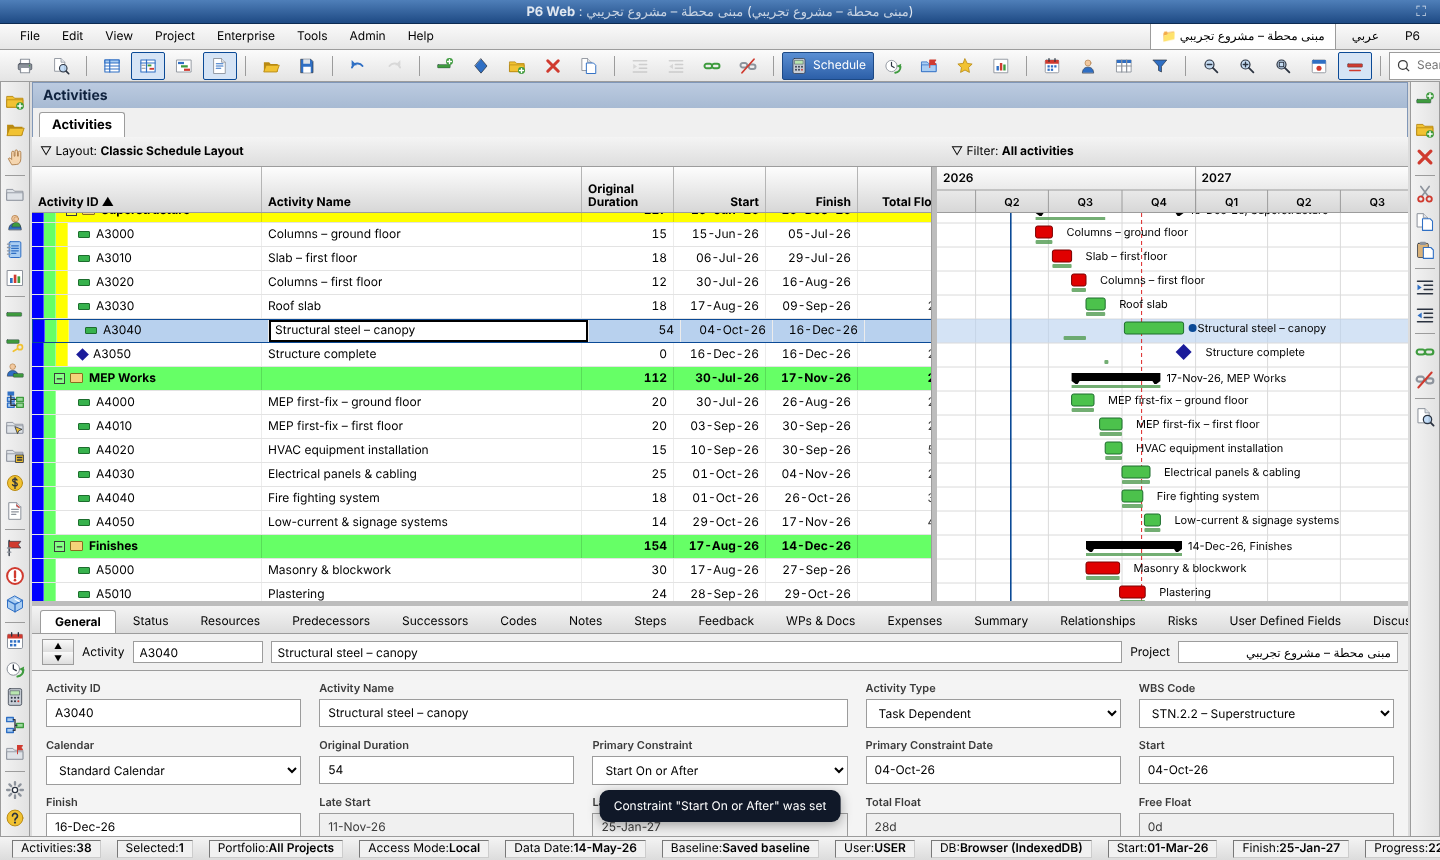
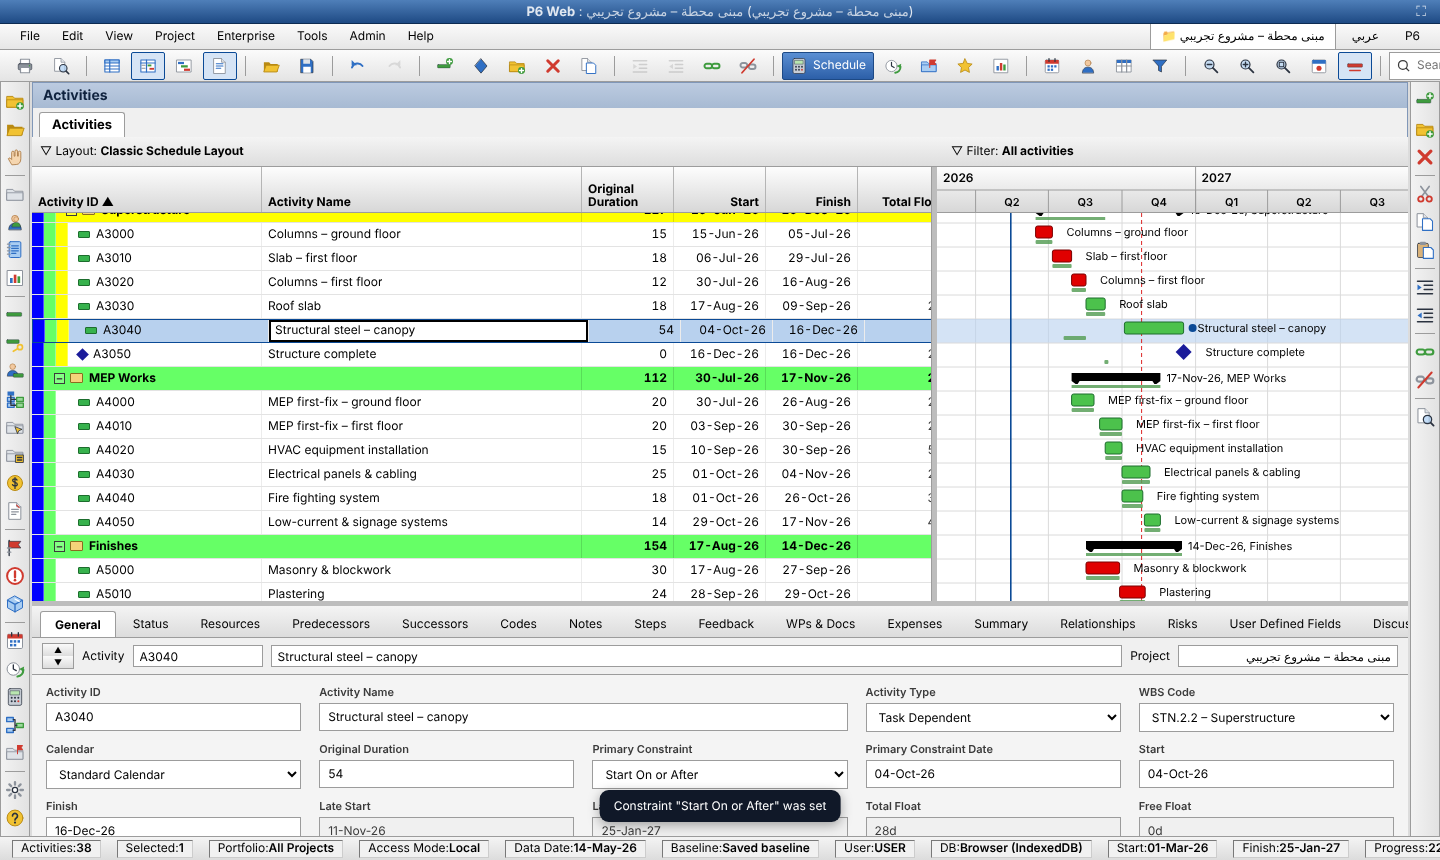
Bar size option, wider timescale compress range with slider (#180)
Claude-Session: https://claude.ai/code/session_01DNKDuzURuxssrGYREb4oVz

diff --git a/p6-web/js/menus.js b/p6-web/js/menus.js
@@ -84,13 +84,16 @@
     const sh = F().show, lm = F().labelMode || 'name';
     const items = [['base', 'show_baseline'], ['crit', 'show_critical'], ['rels', 'show_rels'], ['labels', 'show_labels'], ['float', 'show_float'], ['today', 'show_today']];
     const body = `<div class="plist" style="gap:2px">${items.map(([k, l]) => `<label class="chk"><input type="checkbox" data-k="${k}"${sh[k] ? ' checked' : ''}> ${esc(t(l))}</label>`).join('')}<label class="chk"><input type="checkbox" data-k="pline"${F().pline ? ' checked' : ''}> ${esc(t('mi_progressline'))}</label></div>
+      <div class="fld" style="max-width:260px;margin-top:12px"><label>${esc(t('bar_size'))}</label><select id="bd_s">${[1, 2, 3, 4, 5].map((n) => `<option value="${n}"${(F().barSize || 3) === n ? ' selected' : ''}>${n} – ${esc(t('bs_' + n))}</option>`).join('')}</select></div>
       <div class="fld" style="max-width:260px;margin-top:12px"><label>${esc(t('label_text'))}</label><select id="bd_l">${[['name', t('col_name')], ['id', t('col_code')], ['both', t('lbl_both')], ['none', t('lbl_none')]].map(([v, l]) => `<option value="${v}"${lm === v ? ' selected' : ''}>${esc(l)}</option>`).join('')}</select></div>`;
-    modal({ title: t('mi_bars'), cls: 'mid', body, buttons: [{ label: t('cancel'), fn: () => {} }, { label: t('apply'), cls: 'pri', fn: (c, el) => { el.querySelectorAll('input[data-k]').forEach((i) => { if (i.dataset.k === 'pline') F().pline = i.checked; else F().show[i.dataset.k] = i.checked; }); F().labelMode = $('#bd_l', el).value; App.saveCfg(); App.refresh(); App.buildMenus(); } }] });
+    modal({ title: t('mi_bars'), cls: 'mid', body, buttons: [{ label: t('cancel'), fn: () => {} }, { label: t('apply'), cls: 'pri', fn: (c, el) => { el.querySelectorAll('input[data-k]').forEach((i) => { if (i.dataset.k === 'pline') F().pline = i.checked; else F().show[i.dataset.k] = i.checked; }); F().labelMode = $('#bd_l', el).value; F().barSize = +$('#bd_s', el).value; App.saveCfg(); App.refresh(); App.buildMenus(); } }] });
   };
   D.timescaleDialog = function () {
     const cur = App.nearestTs();
-    const body = `<div class="plist">${App.TS.map(([k, v]) => `<label class="pitem"><input type="radio" name="ts" value="${v}"${cur === v ? ' checked' : ''}><div class="nm">${esc(t('ts_' + k))}</div></label>`).join('')}</div>`;
-    modal({ title: t('mi_timescale'), cls: 'mid', body, buttons: [{ label: t('cancel'), fn: () => {} }, { label: t('fit_project'), fn: () => { App.zoomFit(); } }, { label: t('apply'), cls: 'pri', fn: (c, el) => { const r = el.querySelector('input[name=ts]:checked'); if (r) App.setTimescale(+r.value); } }] });
+    const nz = App.zoomLevels(), cz = F().pxIdx;
+    const body = `<div class="fld" style="margin-bottom:12px"><label>${esc(t('ts_compress'))}: <b id="tsv">${nz[cz]} px/${esc(t('ts_day'))}</b></label><input type="range" id="ts_r" min="0" max="${nz.length - 1}" value="${cz}" style="width:100%;direction:ltr"><div style="display:flex;justify-content:space-between;font-size:11px;color:var(--muted)"><span>${esc(t('ts_zoomin'))}</span><span>${esc(t('ts_zoomout'))}</span></div></div><div class="plist">${App.TS.map(([k, v]) => `<label class="pitem"><input type="radio" name="ts" value="${v}"${cur === v ? ' checked' : ''}><div class="nm">${esc(t('ts_' + k))}</div></label>`).join('')}</div>`;
+    modal({ title: t('mi_timescale'), cls: 'mid', body, buttons: [{ label: t('cancel'), fn: () => {} }, { label: t('fit_project'), fn: () => { App.zoomFit(); } }, { label: t('apply'), cls: 'pri', fn: (c, el) => { const rg = +$('#ts_r', el).value; const r = el.querySelector('input[name=ts]:checked'); if (rg !== cz) App.setTimescale(rg); else if (r) App.setTimescale(+r.value); } }] });
+    const rr = document.getElementById('ts_r'); if (rr) rr.oninput = () => { document.getElementById('tsv').textContent = nz[+rr.value] + ' px/' + t('ts_day'); document.querySelectorAll('input[name=ts]').forEach((x) => { x.checked = false; }); };
   };
   D.tableFont = function () {
     const body = `<div class="grid2"><div class="fld"><label>${esc(t('font_size'))}</label><input id="tf_s" value="${F().fontSize || 12}"></div><div class="fld"><label>${esc(t('row_height'))}</label><input id="tf_r" value="${App.getRH()}"></div></div><label class="chk" style="margin-top:10px"><input type="checkbox" id="tf_b"${F().boldWbs !== false ? ' checked' : ''}> ${esc(t('bold_wbs'))}</label>`;

diff --git a/p6-web/js/app.js b/p6-web/js/app.js
@@ -6,7 +6,7 @@
   const esc = P6.esc;
   const t = (k, ...a) => P6.t(k, ...a);
 
-  const ZOOMS = [60, 36, 20, 12, 6, 3, 1.6, 0.8, 0.4];
+  const ZOOMS = [60, 36, 20, 12, 6, 3, 1.6, 0.8, 0.4, 0.2, 0.1, 0.05];
   const ALL_COLS = P6.ALL_COLS;
   const DEF_COLS = ['code', 'name', 'dur', 'es', 'ef', 'tf'];
   const TYPES = ['TT_Task', 'TT_Mile', 'TT_FinMile', 'TT_LOE'];
@@ -793,7 +793,7 @@
   function pushGantt(full) {
     if (!gantt) return;
     const px = ZOOMS[S.cfg.pxIdx];
-    const o = { rows: S.rows, ru: S.ru, rowH: RH, px, minDay: S.minDay, maxDay: S.maxDay, sel: S.sel, show: Object.assign({}, S.cfg.show, { pline: S.cfg.pline, labelMode: S.cfg.labelMode || 'name' }), p: S.p, rels: true, spot: S.cfg.show.spot ? S.spot : null };
+    const o = { rows: S.rows, ru: S.ru, rowH: RH, px, minDay: S.minDay, maxDay: S.maxDay, sel: S.sel, show: Object.assign({}, S.cfg.show, { pline: S.cfg.pline, labelMode: S.cfg.labelMode || 'name', barSize: S.cfg.barSize || 3 }), p: S.p, rels: true, spot: S.cfg.show.spot ? S.spot : null };
     gantt.set(o);
   }
   function ganttCb() {
@@ -1190,7 +1190,7 @@
   const BARS = [['base', 'show_baseline'], ['crit', 'show_critical'], ['rels', 'show_rels'], ['labels', 'show_labels'], ['float', 'show_float'], ['today', 'show_today'], ['spot', 'spotlight']];
   function buildLayoutBar() { if (API.drawLayoutBar) API.drawLayoutBar(); }
   const nearestTs = () => TS.reduce((b, x) => (Math.abs(x[1] - S.cfg.pxIdx) < Math.abs(b[1] - S.cfg.pxIdx) ? x : b), TS[0])[1];
-  Object.assign(API, { LAYOUTS, TS, BARS, setTimescale, nearestTs, toggleShow, saveCfg, layoutDetails, renderDetails, setSel(keys) { S.sel = new Set(keys); S.focus = keys[0] || null; S.anchor = S.focus; selChanged(); } });
+  Object.assign(API, { LAYOUTS, TS, zoomLevels: () => ZOOMS.slice(), BARS, setTimescale, nearestTs, toggleShow, saveCfg, layoutDetails, renderDetails, setSel(keys) { S.sel = new Set(keys); S.focus = keys[0] || null; S.anchor = S.focus; selChanged(); } });
   // ---------- File menu features ----------
   API.commit = async function () { await saveNow(); toast(t('committed')); updateStatus(); };
   API.refreshData = async function () {

diff --git a/p6-web/js/gantt.js b/p6-web/js/gantt.js
@@ -78,6 +78,11 @@
         const qNext = (d) => { const y = P6.ymd(d); return P6.mkDay(y.y, y.m - (y.m % 3) + 3, 1); };
         walk(qStart, qNext, (d) => { const y = P6.ymd(d); return 'Qtr ' + (Math.floor(y.m / 3) + 1) + ', ' + y.y; }, top);
         walk(monthStart, nextMonth, (d) => (px * 30 >= 56 ? P6.MON[P6.ymd(d).m] : P6.MON[P6.ymd(d).m][0]), bot);
+      } else if (px < 0.3) {
+        const decStart = (d) => { const y = P6.ymd(d); return P6.mkDay(y.y - (y.y % 10), 0, 1); };
+        const decNext = (d) => { const y = P6.ymd(d); return P6.mkDay(y.y - (y.y % 10) + 10, 0, 1); };
+        walk(decStart, decNext, (d) => P6.ymd(d).y + 's', top);
+        walk(yearStart, nextYear, (d) => (px * 365 >= 30 ? String(P6.ymd(d).y) : String(P6.ymd(d).y).slice(2)), bot);
       } else {
         walk(yearStart, nextYear, (d) => String(P6.ymd(d).y), top);
         for (let d = monthStart(d0); d <= d1; d = nextMonth(d)) {
@@ -150,7 +155,7 @@
       for (let i = r0; i <= r1; i++) {
         const r = rows[i], y = rowY(i);
         const base = sh.base ? 1 : 0;
-        const by = y + (base ? 3 : 6), bh = 12;
+        const bh = [5, 8, 12, 16, 20][Math.max(1, Math.min(5, sh.barSize || 3)) - 1], by = y + Math.max(1, Math.round((rh - bh) / 2)) - (base ? 3 : 0);
         if (r.kind !== 't') {
           const ru = o.ru.get(r.id);
           if (!ru || ru.es == null) continue;

diff --git a/p6-web/js/i18n2.js b/p6-web/js/i18n2.js
@@ -56,5 +56,6 @@
     grp_pbreak: ['Page Break', 'فاصل صفحة'],
     copied_excel: ['{0} rows copied – paste into Excel', 'تم نسخ {0} صف – الصقها في Excel'], copy_failed: ['Copy failed', 'فشل النسخ'], grp_file: ['File', 'ملف'], grp_edit: ['Edit', 'تحرير'], grp_nav: ['Navigation / View', 'التنقل / العرض'], grp_tools: ['Tools', 'أدوات'], mi_copytable: ['Copy Table for Excel', 'نسخ الجدول لـ Excel'],
     grp_defcodes: ['Activity Codes… (none defined – click to create)', 'Activity Codes… (لا توجد – اضغط للتعريف)'],
+    bar_size: ['Bar size', 'حجم البار'], bs_1: ['Smallest', 'الأصغر'], bs_2: ['Small', 'صغير'], bs_3: ['Medium', 'متوسط'], bs_4: ['Large', 'كبير'], bs_5: ['Largest', 'الأكبر'], ts_compress: ['Timescale (compress / expand)', 'مقياس الزمن (تصغير / تكبير)'], ts_zoomin: ['Expanded', 'مكبّر'], ts_zoomout: ['Compressed', 'مصغّر'],
   });
 })(window);
